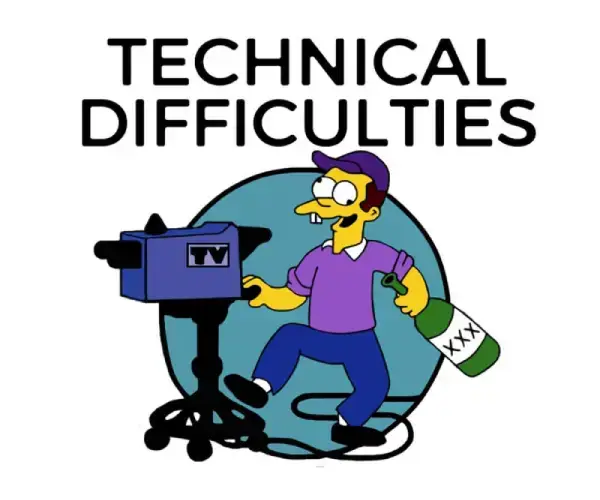
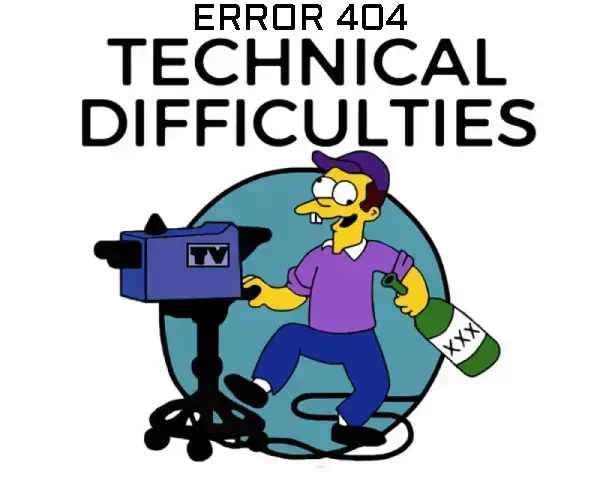
se agrega meta author

Changed region(s): [[0.3, 0.0, 0.69, 0.06]]

diff --git a/pages/404.html b/pages/404.html
@@ -7,9 +7,10 @@
     <link href="https://cdn.jsdelivr.net/npm/bootstrap@5.2.3/dist/css/bootstrap.min.css" rel="stylesheet" integrity="sha384-rbsA2VBKQhggwzxH7pPCaAqO46MgnOM80zW1RWuH61DGLwZJEdK2Kadq2F9CUG65" crossorigin="anonymous">
     <link rel="stylesheet" href="../css/main.css">
     <link rel="shortcut icon" href="../img/favicon.png" type="image/x-icon">
-    <title>Ruta 6 Club - Contactanos</title>
-    <meta name="description" content="Contactanos y coordina tu visita para conocernos.">
+    <title>404</title>
+    <meta name="description" content="">
     <meta name="keywords" content="naturaleza, campo, esparcimiento, relajacion, lotes">
+    <meta name="author" content="Sergio Perez">
 </head>
 <body>
 

diff --git a/index.html b/index.html
@@ -8,8 +8,9 @@
     <link rel="stylesheet" href="./css/main.css">
     <link rel="shortcut icon" href="./img/favicon.png" type="image/x-icon">
     <title>Ruta6Club - Un lugar para conectarse con la naturaleza</title>
-    <meta name="description" content="A solo 40 minutos de Caba, un lugar para despejarse y disfrutar de la naturalesa. ¡Veni a conocernos!">
+    <meta name="description" content="A solo 40 minutos de Caba, un lugar para despejarse y disfrutar de la naturaleza. ¡Veni a conocernos!">
     <meta name="keywords" content="naturaleza, campo, esparcimiento, relajacion, lotes">
+    <meta name="author" content="Sergio Perez">
 </head>
 <body>
     <div class="gridContainer">

diff --git a/pages/nosotros.html b/pages/nosotros.html
@@ -10,6 +10,7 @@
     <title>Ruta6Club - Nuestra historia</title>
     <meta name="description" content="Conoce nuestras historia, como iniciamos y como llegamos a lo que ahora te ofrecemos.">
     <meta name="keywords" content="naturaleza, campo, esparcimiento, relajacion, lotes">
+    <meta name="author" content="Sergio Perez">
 </head>
 <body>
     <nav id="botonera" class="navbar navbar-expand-lg">

diff --git a/pages/novedades.html b/pages/novedades.html
@@ -10,6 +10,7 @@
     <title>Ruta 6 Club - Novedades</title>
     <meta name="description" content="Todas la novedades de las mejoras que periodicamente realizamos a nuestro predio.">
     <meta name="keywords" content="naturaleza, campo, esparcimiento, relajacion, lotes">
+    <meta name="author" content="Sergio Perez">
 </head>
 <body>
     <nav id="botonera" class="navbar navbar-expand-lg">

diff --git a/pages/contacto.html b/pages/contacto.html
@@ -10,6 +10,7 @@
     <title>Ruta 6 Club - Contactanos</title>
     <meta name="description" content="Contactanos y coordina tu visita para conocernos.">
     <meta name="keywords" content="naturaleza, campo, esparcimiento, relajacion, lotes">
+    <meta name="author" content="Sergio Perez">
 </head>
 <body>    
     <nav id="botonera" class="navbar navbar-expand-lg">

diff --git a/pages/servicios.html b/pages/servicios.html
@@ -10,6 +10,7 @@
     <title>Ruta 6 Club - Servicios que ofrecemos</title>
     <meta name="description" content="Conoce nuestros servicios.">
     <meta name="keywords" content="naturaleza, campo, esparcimiento, relajacion, lotes">
+    <meta name="author" content="Sergio Perez">
 </head>
 <body>
     <nav id="botonera" class="navbar navbar-expand-lg">
